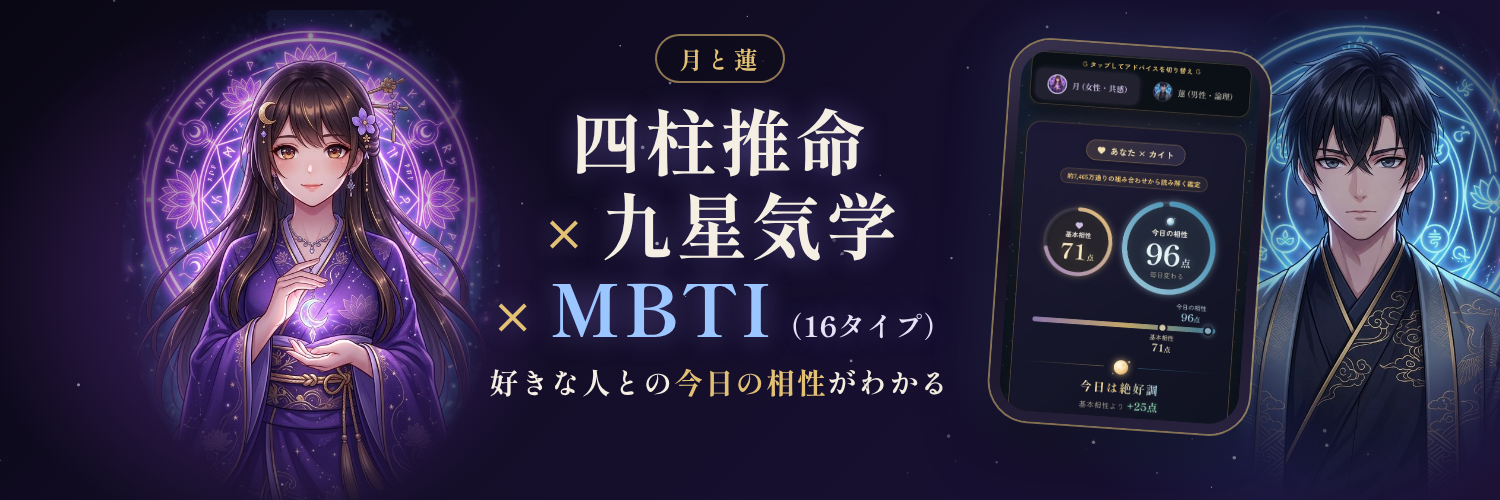
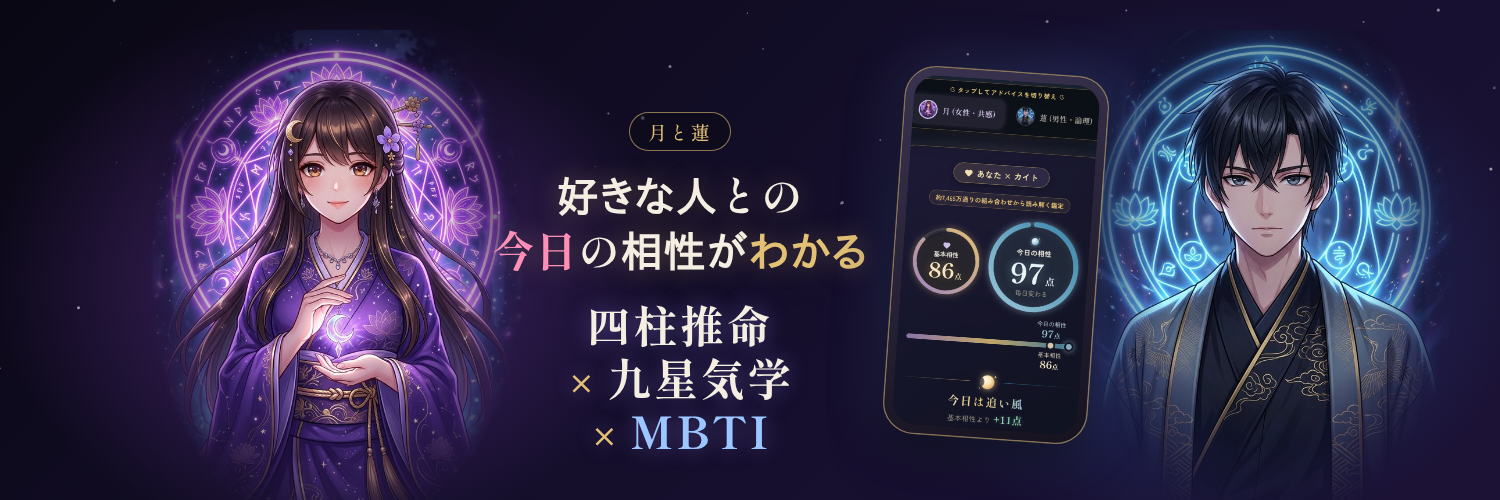
Xヘッダー：10/28版のまま、方式の行だけ縦積み・大きく
「好きな人との今日の相性がわかる」やキャラ・アプリ画面は10/28版の画像のまま。
header-base.png は10/28版から方式の1行だけ消した画像で、header-top.html で縦積みの文字を重ねる。

Claude-Session: https://claude.ai/code/session_019582yCiujsVbX9raqTZ6j6

diff --git a/docs/x-profile/header-top.html b/docs/x-profile/header-top.html
@@ -1,36 +1,11 @@
-<!doctype html><meta charset="utf-8"><!-- Xヘッダー（2026-11-01）。トップOGP A案（ogp/ogp-top.html）と同系統：占いの方式を縦積みで大きく。素材は ogp/ 内。Playwrightで1500×500を撮る -->
+<!doctype html><meta charset="utf-8"><!-- Xヘッダー（2026-11-01）。header-base.png は 10/28版（A案）から「四柱推命 × 九星気学 × MBTI」の1行だけ消した画像。その行を縦積み・大きくして重ねる。Playwrightで1500×500を撮る -->
 <style>
 @font-face{font-family:'SM';font-weight:700;src:url('../../scripts/x/assets/ShipporiMincho-Bold.ttf')}
-html,body{margin:0;width:1500px;height:500px;overflow:hidden;background:#0a0714}
-.h{position:relative;width:1500px;height:500px;font-family:'SM',serif;color:#f4efe2;overflow:hidden;
- background:radial-gradient(460px 420px at 18% 55%,rgba(168,85,247,.36),transparent 65%),
-            radial-gradient(460px 420px at 86% 55%,rgba(59,130,246,.30),transparent 65%),
-            linear-gradient(135deg,#0a0714 0%,#150f2c 55%,#1c1236 100%)}
-svg.st{position:absolute;inset:0}
-.c{position:absolute;-webkit-mask-image:radial-gradient(ellipse 52% 54% at 50% 46%,#000 55%,transparent 100%)}
-.c img{width:100%;height:100%;display:block}
-.tsuki{left:120px;top:10px;width:380px;height:508px}
-.ren{left:1170px;top:10px;width:380px;height:508px;opacity:.95}
-.t{position:absolute;left:455px;top:34px;width:530px;text-align:center}
-.badge{display:inline-block;font-size:24px;letter-spacing:.14em;color:#e2c074;border:2px solid rgba(226,192,116,.6);border-radius:999px;padding:5px 22px;background:rgba(10,10,20,.45)}
-.big{margin-top:14px;font-size:72px;line-height:1.16;letter-spacing:.04em;text-shadow:0 0 28px rgba(160,140,255,.45)}
-.big .x{color:#e2c074;font-size:54px;margin-right:10px}
-.big .m{color:#9cc6ff}
-.big small{font-size:28px;color:#e8e2f7;letter-spacing:.02em}
-.sub{margin-top:12px;font-size:29px;letter-spacing:.06em;white-space:nowrap}
-.sub b{color:#e2c074}
-.phone{position:absolute;left:1000px;top:46px;width:240px;padding:10px;border-radius:40px;transform:rotate(4deg);
- background:linear-gradient(160deg,#3a3350,#151020 40%,#2a2340);
- box-shadow:0 0 0 2px rgba(226,192,116,.55),0 24px 60px rgba(0,0,0,.6),0 0 60px rgba(120,160,255,.25)}
-.phone img{width:240px;display:block;border-radius:31px}
+html,body{margin:0;width:1500px;height:500px;overflow:hidden}
+.h{position:relative;width:1500px;height:500px;background:url('header-base.png');font-family:'SM',serif;color:#f4efe2}
+.m{position:absolute;left:480px;top:298px;width:400px;text-align:center;font-size:44px;line-height:1.2;letter-spacing:.06em;text-shadow:0 0 22px rgba(160,140,255,.45)}
+.m .x{color:#e2c074;font-size:34px;margin-right:8px}
+.m .b{color:#9cc6ff}
+.m small{font-size:20px;color:#e8e2f7;letter-spacing:.02em}
 </style>
-<div class="h"><svg class="st" width="1500" height="500" id="st"></svg>
-<div class="c tsuki"><img src="ogp/tsuki.jpg"></div>
-<div class="c ren"><img src="ogp/ren.jpg"></div>
-<div class="t">
- <div class="badge">月と蓮</div>
- <div class="big">四柱推命<br><span class="x">×</span>九星気学<br><span class="x">×</span><span class="m">MBTI</span><small>（16タイプ）</small></div>
- <div class="sub">好きな人との<b>今日の相性</b>がわかる</div>
-</div>
-<div class="phone"><img src="ogp/app-screen.png"></div>
-</div><script>let s=7,r=()=>(s=(s*16807)%2147483647)/2147483647,o="";for(let i=0;i<70;i++){const x=r()*1500,y=r()*500,z=r()*1.5+.4;o+=`<circle cx="${x.toFixed(1)}" cy="${y.toFixed(1)}" r="${z.toFixed(1)}" fill="#fff" opacity="${(r()*.5+.15).toFixed(2)}"/>`}document.getElementById("st").innerHTML=o;</script>
+<div class="h"><div class="m">四柱推命<br><span class="x">×</span>九星気学<br><span class="x">×</span><span class="b">MBTI</span></div></div>
